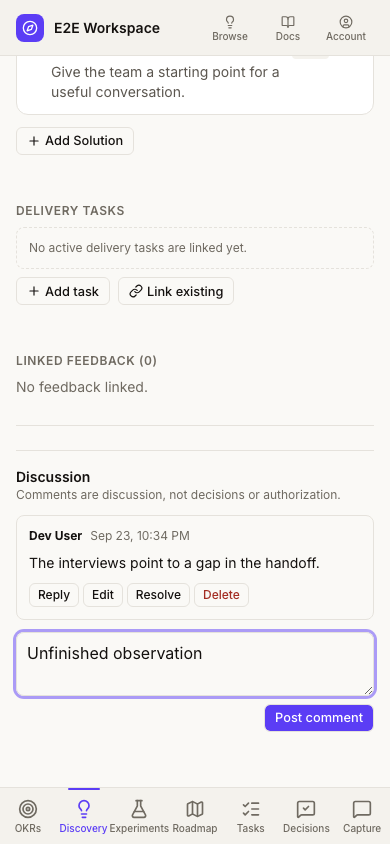
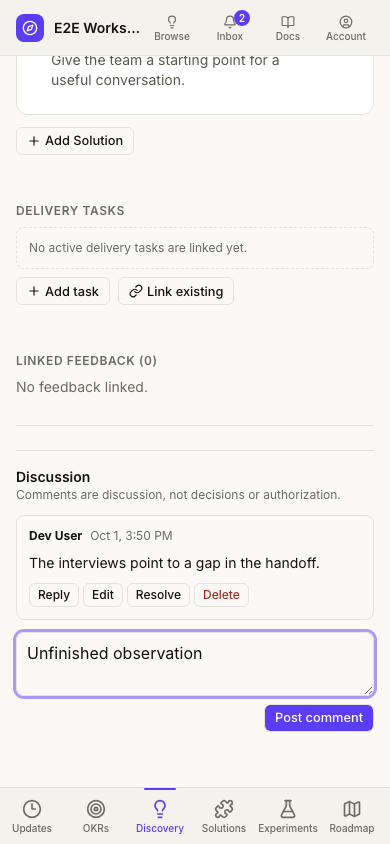
fix(following): adapt to main (typed-links guard entry, Solution workspaceId, thinking-model labels in inbox)

diff --git a/components/notifications/notification-inbox.tsx b/components/notifications/notification-inbox.tsx
@@ -7,6 +7,7 @@ import { BellOff, CheckCheck } from "lucide-react"
 import { Badge } from "@/components/ui/badge"
 import { Button, buttonVariants } from "@/components/ui/button"
 import { NOTIFICATIONS_CHANGED_EVENT } from "@/components/notifications/notification-bell"
+import { useLabels } from "@/components/thinking-model/thinking-model-provider"
 import type { InboxGroup } from "@/lib/notification-inbox"
 
 function formatWhen(iso: string): string {
@@ -47,6 +48,10 @@ export function NotificationInbox({
   totalUnread: number
 }) {
   const router = useRouter()
+  const labels = useLabels()
+  // Opportunity and Solution names are workspace-configurable (thinking model); the rest are fixed.
+  const subjectLabel = (group: InboxGroup) =>
+    group.subjectType === "OPPORTUNITY" ? labels.opportunity.singular : group.subjectType === "SOLUTION" ? labels.solution.singular : group.subjectLabel
   const [readIds, setReadIds] = useState<Set<string>>(new Set())
   const [notice, setNotice] = useState("")
   const [pending, startTransition] = useTransition()
@@ -82,7 +87,7 @@ export function NotificationInbox({
         <p className="mb-2 text-xs font-medium tracking-widest text-text-subtle">THINGS YOU FOLLOW</p>
         <h1 className="text-3xl font-semibold tracking-tight text-text-primary">Notifications</h1>
         <p className="mt-2 text-text-secondary">
-          Status changes and comments on the Opportunities, Solutions, Tasks and Docs you follow.
+          Status changes and comments on the {labels.opportunity.lowerPlural}, {labels.solution.lowerPlural}, tasks and docs you follow.
         </p>
       </header>
 
@@ -107,7 +112,7 @@ export function NotificationInbox({
           <BellOff className="mx-auto mb-4 size-8 text-text-subtle" aria-hidden="true" />
           <h2 className="text-xl font-medium">{unreadOnly ? "You’re all caught up." : "No notifications yet."}</h2>
           <p className="mx-auto mt-2 max-w-md text-sm text-text-secondary">
-            Follow an Opportunity, Solution, Task or Doc and its status changes and comments will show up here. You follow what you create, comment on or are assigned automatically.
+            Follow {labels.opportunity.indefinite}, {labels.solution.indefinite}, a task or a doc and its status changes and comments will show up here. You follow what you create, comment on or are assigned automatically.
           </p>
         </section>
       ) : (
@@ -119,7 +124,7 @@ export function NotificationInbox({
                 <div className="flex items-start justify-between gap-3 border-b border-border p-4 md:px-5">
                   <div className="min-w-0">
                     <p className="mb-1 flex items-center gap-2 text-xs text-text-subtle">
-                      <Badge variant="secondary">{group.subjectLabel}</Badge>
+                      <Badge variant="secondary">{subjectLabel(group)}</Badge>
                       <time dateTime={group.latestAt}>{formatWhen(group.latestAt)}</time>
                     </p>
                     {group.href && group.title ? (

diff --git a/__tests__/workspace-update-following.test.ts b/__tests__/workspace-update-following.test.ts
@@ -64,11 +64,21 @@ describe("status hook decoupled from WORKSPACE_UPDATES_ENABLED", () => {
     expect(mocks.apply).toHaveBeenCalledTimes(1)
   })
 
-  it("resolves the workspace of a Solution through its Opportunity", async () => {
-    findUnique.mockResolvedValueOnce({ id: "s1", opportunityId: "o1", status: "DRAFT" }).mockResolvedValueOnce({ id: "o1", workspaceId: WS })
-    await captureWorkspaceMutation(db, "solution", "update", user, "s1", async () => ({ id: "s1", opportunityId: "o1", status: "BUILDING" }))
+  it("uses a Solution's own workspaceId, never its Opportunity's (migration 068)", async () => {
+    findUnique.mockResolvedValueOnce({ id: "s1", workspaceId: WS, opportunityId: "o1", status: "IDEA" })
+    await captureWorkspaceMutation(db, "solution", "update", user, "s1", async () => ({ id: "s1", workspaceId: WS, opportunityId: "o1", status: "VALIDATED" }))
     const [effects] = mocks.apply.mock.calls[0]
     expect(effects[0].event).toMatchObject({ subjectType: "SOLUTION", workspaceId: WS })
+    expect(findUnique).toHaveBeenCalledTimes(1)
+  })
+
+  it("fails closed for a Solution with no workspaceId: no effect is planned and the edit still succeeds", async () => {
+    vi.spyOn(console, "error").mockImplementation(() => {})
+    findUnique.mockResolvedValueOnce({ id: "s1", workspaceId: null, opportunityId: "o1", status: "IDEA" })
+    const result = await captureWorkspaceMutation(db, "solution", "update", user, "s1", async () => ({ id: "s1", workspaceId: null, opportunityId: "o1", status: "VALIDATED" }))
+    expect(result).toMatchObject({ id: "s1" })
+    expect(mocks.apply).not.toHaveBeenCalled()
+    expect(findUnique).toHaveBeenCalledTimes(1)
   })
 
   it("does no extra read, auth, or effect when nothing changed", async () => {
@@ -107,9 +117,10 @@ describe("status hook decoupled from WORKSPACE_UPDATES_ENABLED", () => {
 
   it("does not fail the edit when planning effects throws", async () => {
     vi.spyOn(console, "error").mockImplementation(() => {})
-    findUnique.mockResolvedValueOnce({ id: "s1", opportunityId: "o1", status: "DRAFT" }).mockRejectedValueOnce(new Error("lookup failed"))
-    const result = await captureWorkspaceMutation(db, "solution", "update", user, "s1", async () => ({ id: "s1", opportunityId: "o1", status: "BUILDING" }))
-    expect(result).toMatchObject({ id: "s1" })
+    findUnique.mockResolvedValueOnce({ id: "t1", status: "TODO" })
+    // The result carries no workspaceId, so resolving the scope throws inside planning.
+    const result = await captureWorkspaceMutation(db, "task", "update", user, "t1", async () => ({ id: "t1", status: "DONE" }))
+    expect(result).toMatchObject({ id: "t1" })
     expect(mocks.apply).not.toHaveBeenCalled()
   })
 })

diff --git a/__tests__/components/notification-inbox.test.tsx b/__tests__/components/notification-inbox.test.tsx
@@ -6,6 +6,8 @@ import "@testing-library/jest-dom/vitest"
 const refresh = vi.fn()
 vi.mock("next/navigation", () => ({ useRouter: () => ({ refresh, push: vi.fn() }), usePathname: () => "/acme/ws/notifications" }))
 
+import { ThinkingModelProvider } from "@/components/thinking-model/thinking-model-provider"
+import { resolveThinkingModel } from "@/lib/thinking-model/resolve"
 import { NotificationInbox } from "@/components/notifications/notification-inbox"
 import type { InboxGroup } from "@/lib/notification-inbox"
 
@@ -71,6 +73,18 @@ describe("NotificationInbox", () => {
     expect(screen.getByText("No notifications yet.")).toBeInTheDocument()
     expect(screen.getByText(/You follow what you create, comment on or are assigned/)).toBeInTheDocument()
     expect(screen.getByRole("button", { name: /Mark all read/ })).toBeDisabled()
+  })
+
+  it("uses the workspace's thinking-model names for Opportunity and Solution", () => {
+    const labels = JSON.stringify({ opportunity: { singular: "Bet", plural: "Bets" }, solution: { singular: "Approach", plural: "Approaches" } })
+    render(
+      <ThinkingModelProvider value={resolveThinkingModel({ thinkingModel: "CLASSIC", thinkingModelLabels: labels })}>
+        <NotificationInbox orgSlug="acme" workspaceSlug="ws" groups={[group({ subjectType: "OPPORTUNITY", subjectLabel: "Opportunity" })]} unreadOnly={false} nextHref={null} totalUnread={2} />
+      </ThinkingModelProvider>,
+    )
+    expect(screen.getByText("Bet")).toBeInTheDocument()
+    expect(screen.queryByText("Opportunity")).not.toBeInTheDocument()
+    expect(screen.getByText(/on the bets, approaches, tasks and docs you follow/)).toBeInTheDocument()
   })
 
   it("has an unread filter and a link to older notifications", () => {

diff --git a/e2e/functional/specs/following-notifications.spec.ts b/e2e/functional/specs/following-notifications.spec.ts
@@ -189,6 +189,18 @@ test("follow, notify exactly once, mark read, unfollow stays unfollowed, removed
     await bPage.reload();
     await expect(bPage.getByRole("button", { name: "Following" })).toBeVisible({ timeout: 30_000 });
 
+    // ── Solutions carry their own workspaceId (migration 068): follow and notify still work
+    const { rows: [solution] } = await pool.query<{ id: string; status: string }>(
+      `SELECT id, status FROM "${S}".solutions WHERE workspace_id = $1 ORDER BY created_at LIMIT 1`, [workspaceId]);
+    expect(solution, "the seed provides a Solution in the workspace").toBeTruthy();
+    const followed = await bClient.put("/api/following", { data: { orgSlug: ORG, workspaceSlug: WORKSPACE, subjectType: "SOLUTION", subjectId: solution.id, following: true } });
+    expect(followed.ok()).toBe(true);
+    const beforeSolution = (await unread(bClient)).body!.count;
+    const nextStatus = solution.status === "VALIDATED" ? "IDEA" : "VALIDATED";
+    const moved2 = await page.request.patch(`/api/panels/entity/solution/${solution.id}?${query}`, { data: { field: "status", value: nextStatus } });
+    expect(moved2.ok()).toBe(true);
+    expect((await unread(bClient)).body?.count, "a Solution status change notifies its follower once").toBe(beforeSolution + 1);
+
     // ── A removed member sees nothing ─────────────────────────────────────────
     await pool.query(`DELETE FROM "${S}".workspace_members WHERE workspace_id = $1 AND user_id = $2`, [workspaceId, bUserId]);
     expect((await unread(bClient)).status).toBe(404);

diff --git a/__tests__/following-status-bypass-guard.test.ts b/__tests__/following-status-bypass-guard.test.ts
@@ -26,6 +26,7 @@ const key = (site: Pick<StatusWriteSite, "file" | "model" | "operation">) => `${
 /** Reads as a status write to a static scan but cannot change status. */
 const NOT_A_STATUS_WRITE: Allow[] = [
   { site: "lib/opportunity-tool-handlers.ts::opportunity.update", count: 1, reason: "update_opportunity data is limited to title, description, customerSegment" },
+  { site: "lib/typed-links.ts::opportunity.update", count: 1, reason: "setOpportunityKeyResult writes linkedKeyResultId and updatedAt only; callers wrap it in captureWorkspaceMutation" },
   { site: "lib/solution-tool-handlers.ts::solution.update", count: 1, reason: "update_solution data is limited to title and description" },
   { site: "lib/pm-interview-service.ts::opportunity.update", count: 1, reason: "PM_INTERVIEW_ALLOWED_FIELDS contains no status field" },
   { site: "lib/pm-interview-service.ts::solution.update", count: 1, reason: "PM_INTERVIEW_ALLOWED_FIELDS contains no status field" },

diff --git a/__tests__/thinking-model/converted-files.ts b/__tests__/thinking-model/converted-files.ts
@@ -17,6 +17,8 @@
  */
 export const CONVERTED_FILES = [
   "components/sidebar.tsx",
+  // Following (slice 2): label-driven from the start, no CLASSIC baseline.
+  "components/notifications/notification-inbox.tsx",
   "components/bottom-nav.tsx",
   "app/[orgSlug]/[workspaceSlug]/okrs/page.tsx",
   "app/[orgSlug]/[workspaceSlug]/okrs/[cycleId]/page.tsx",
